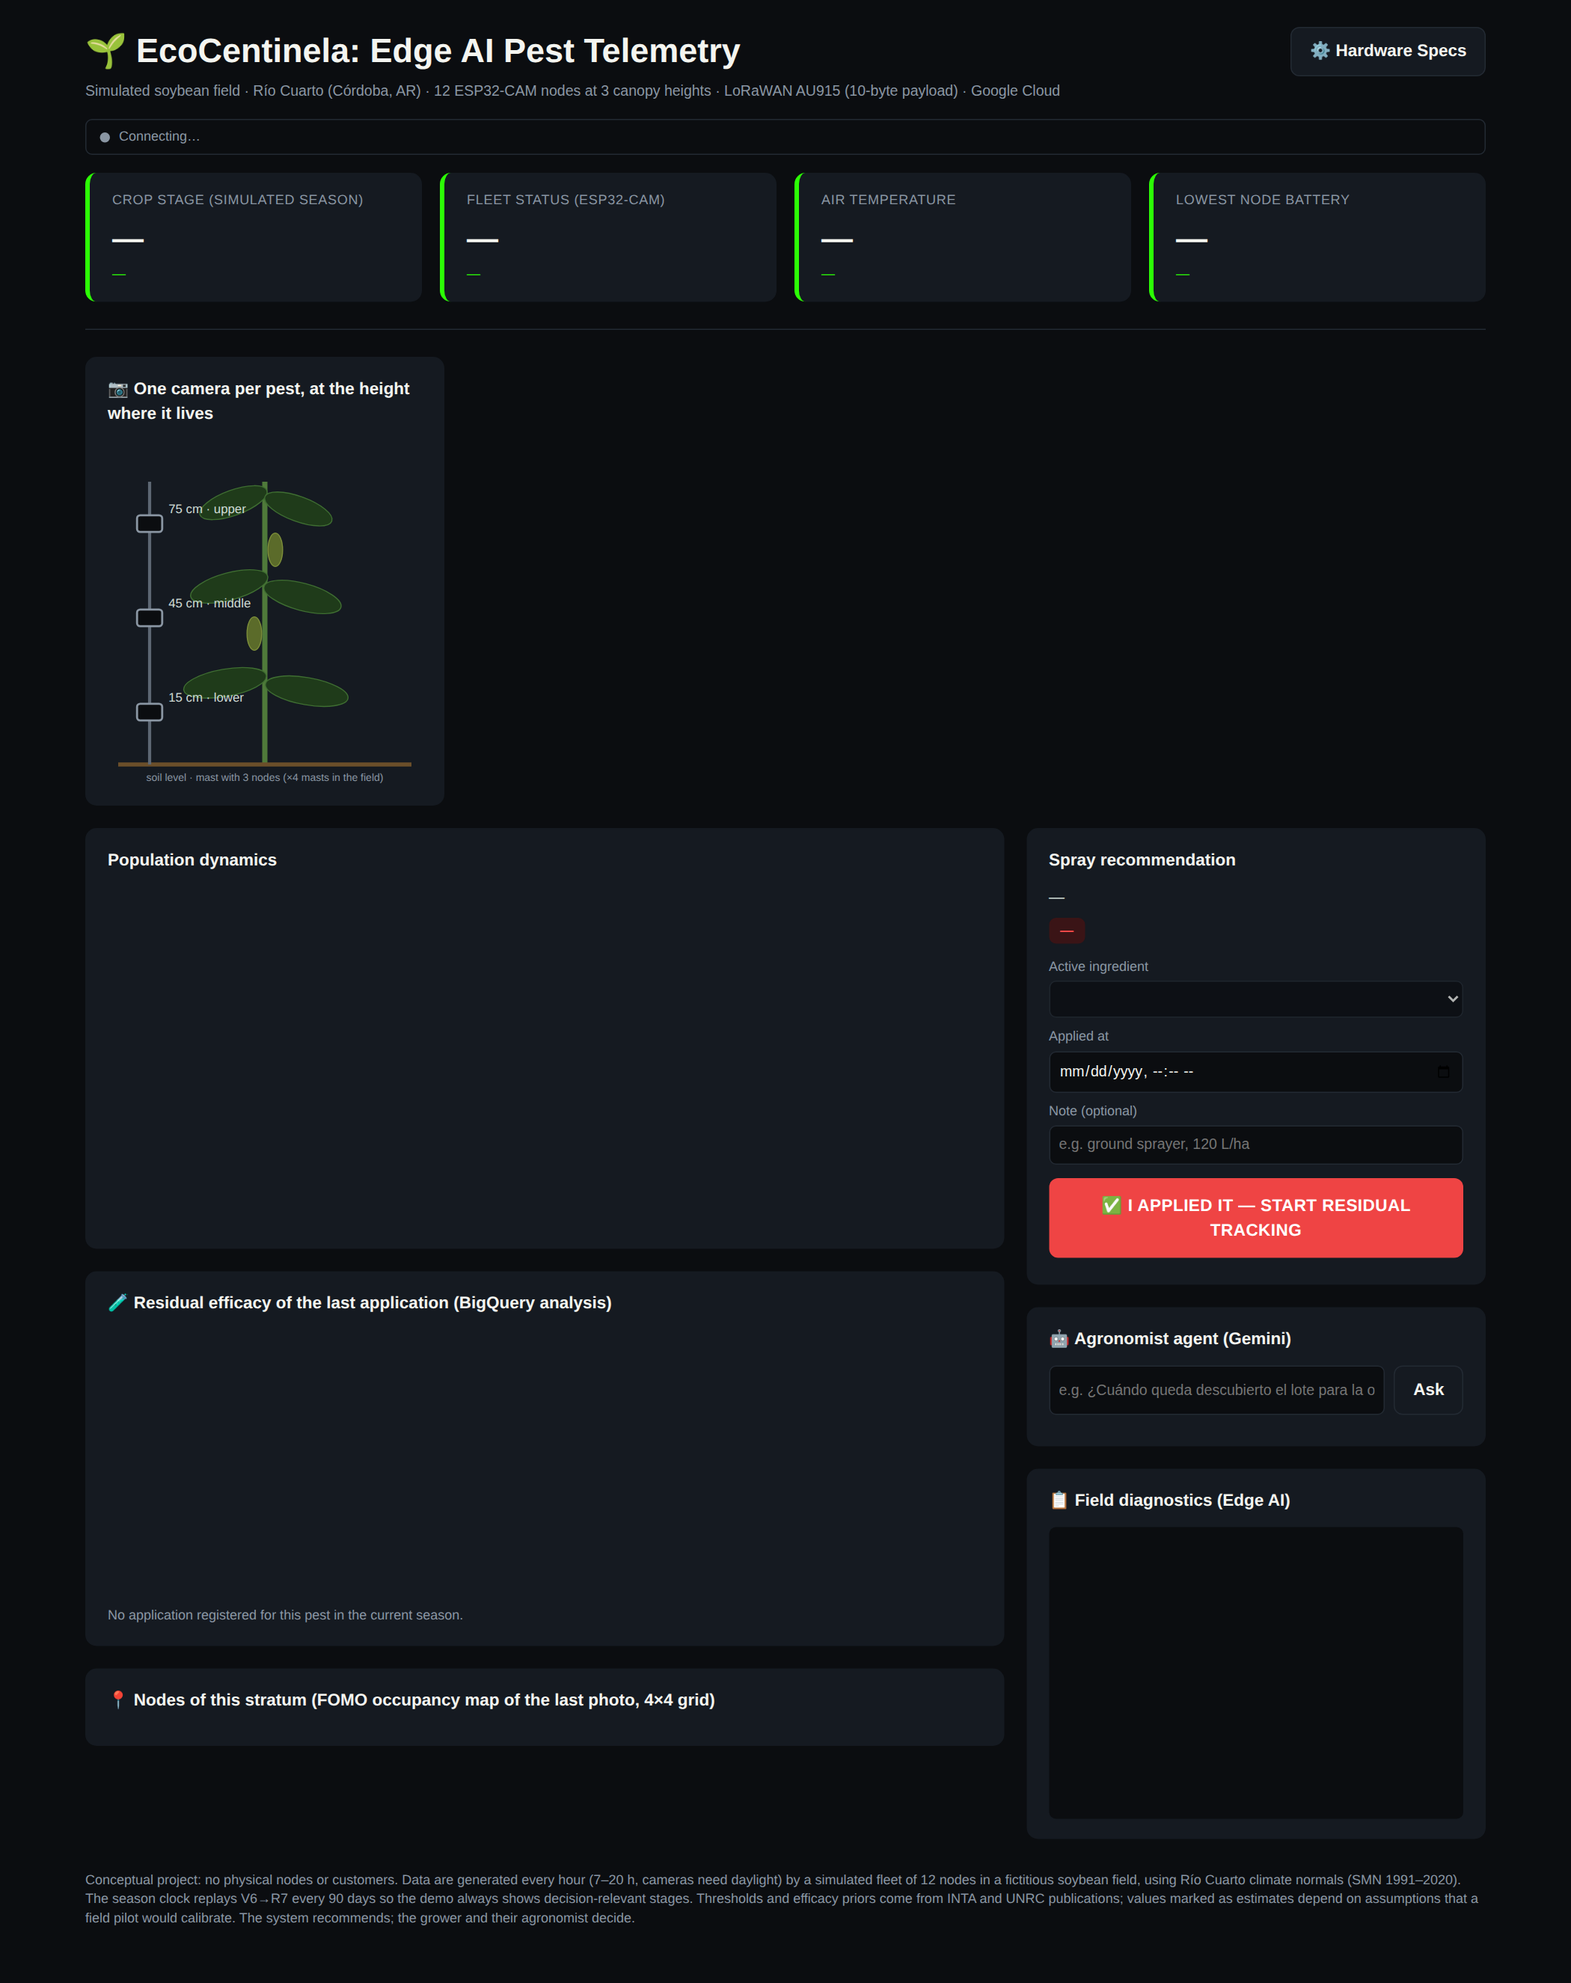
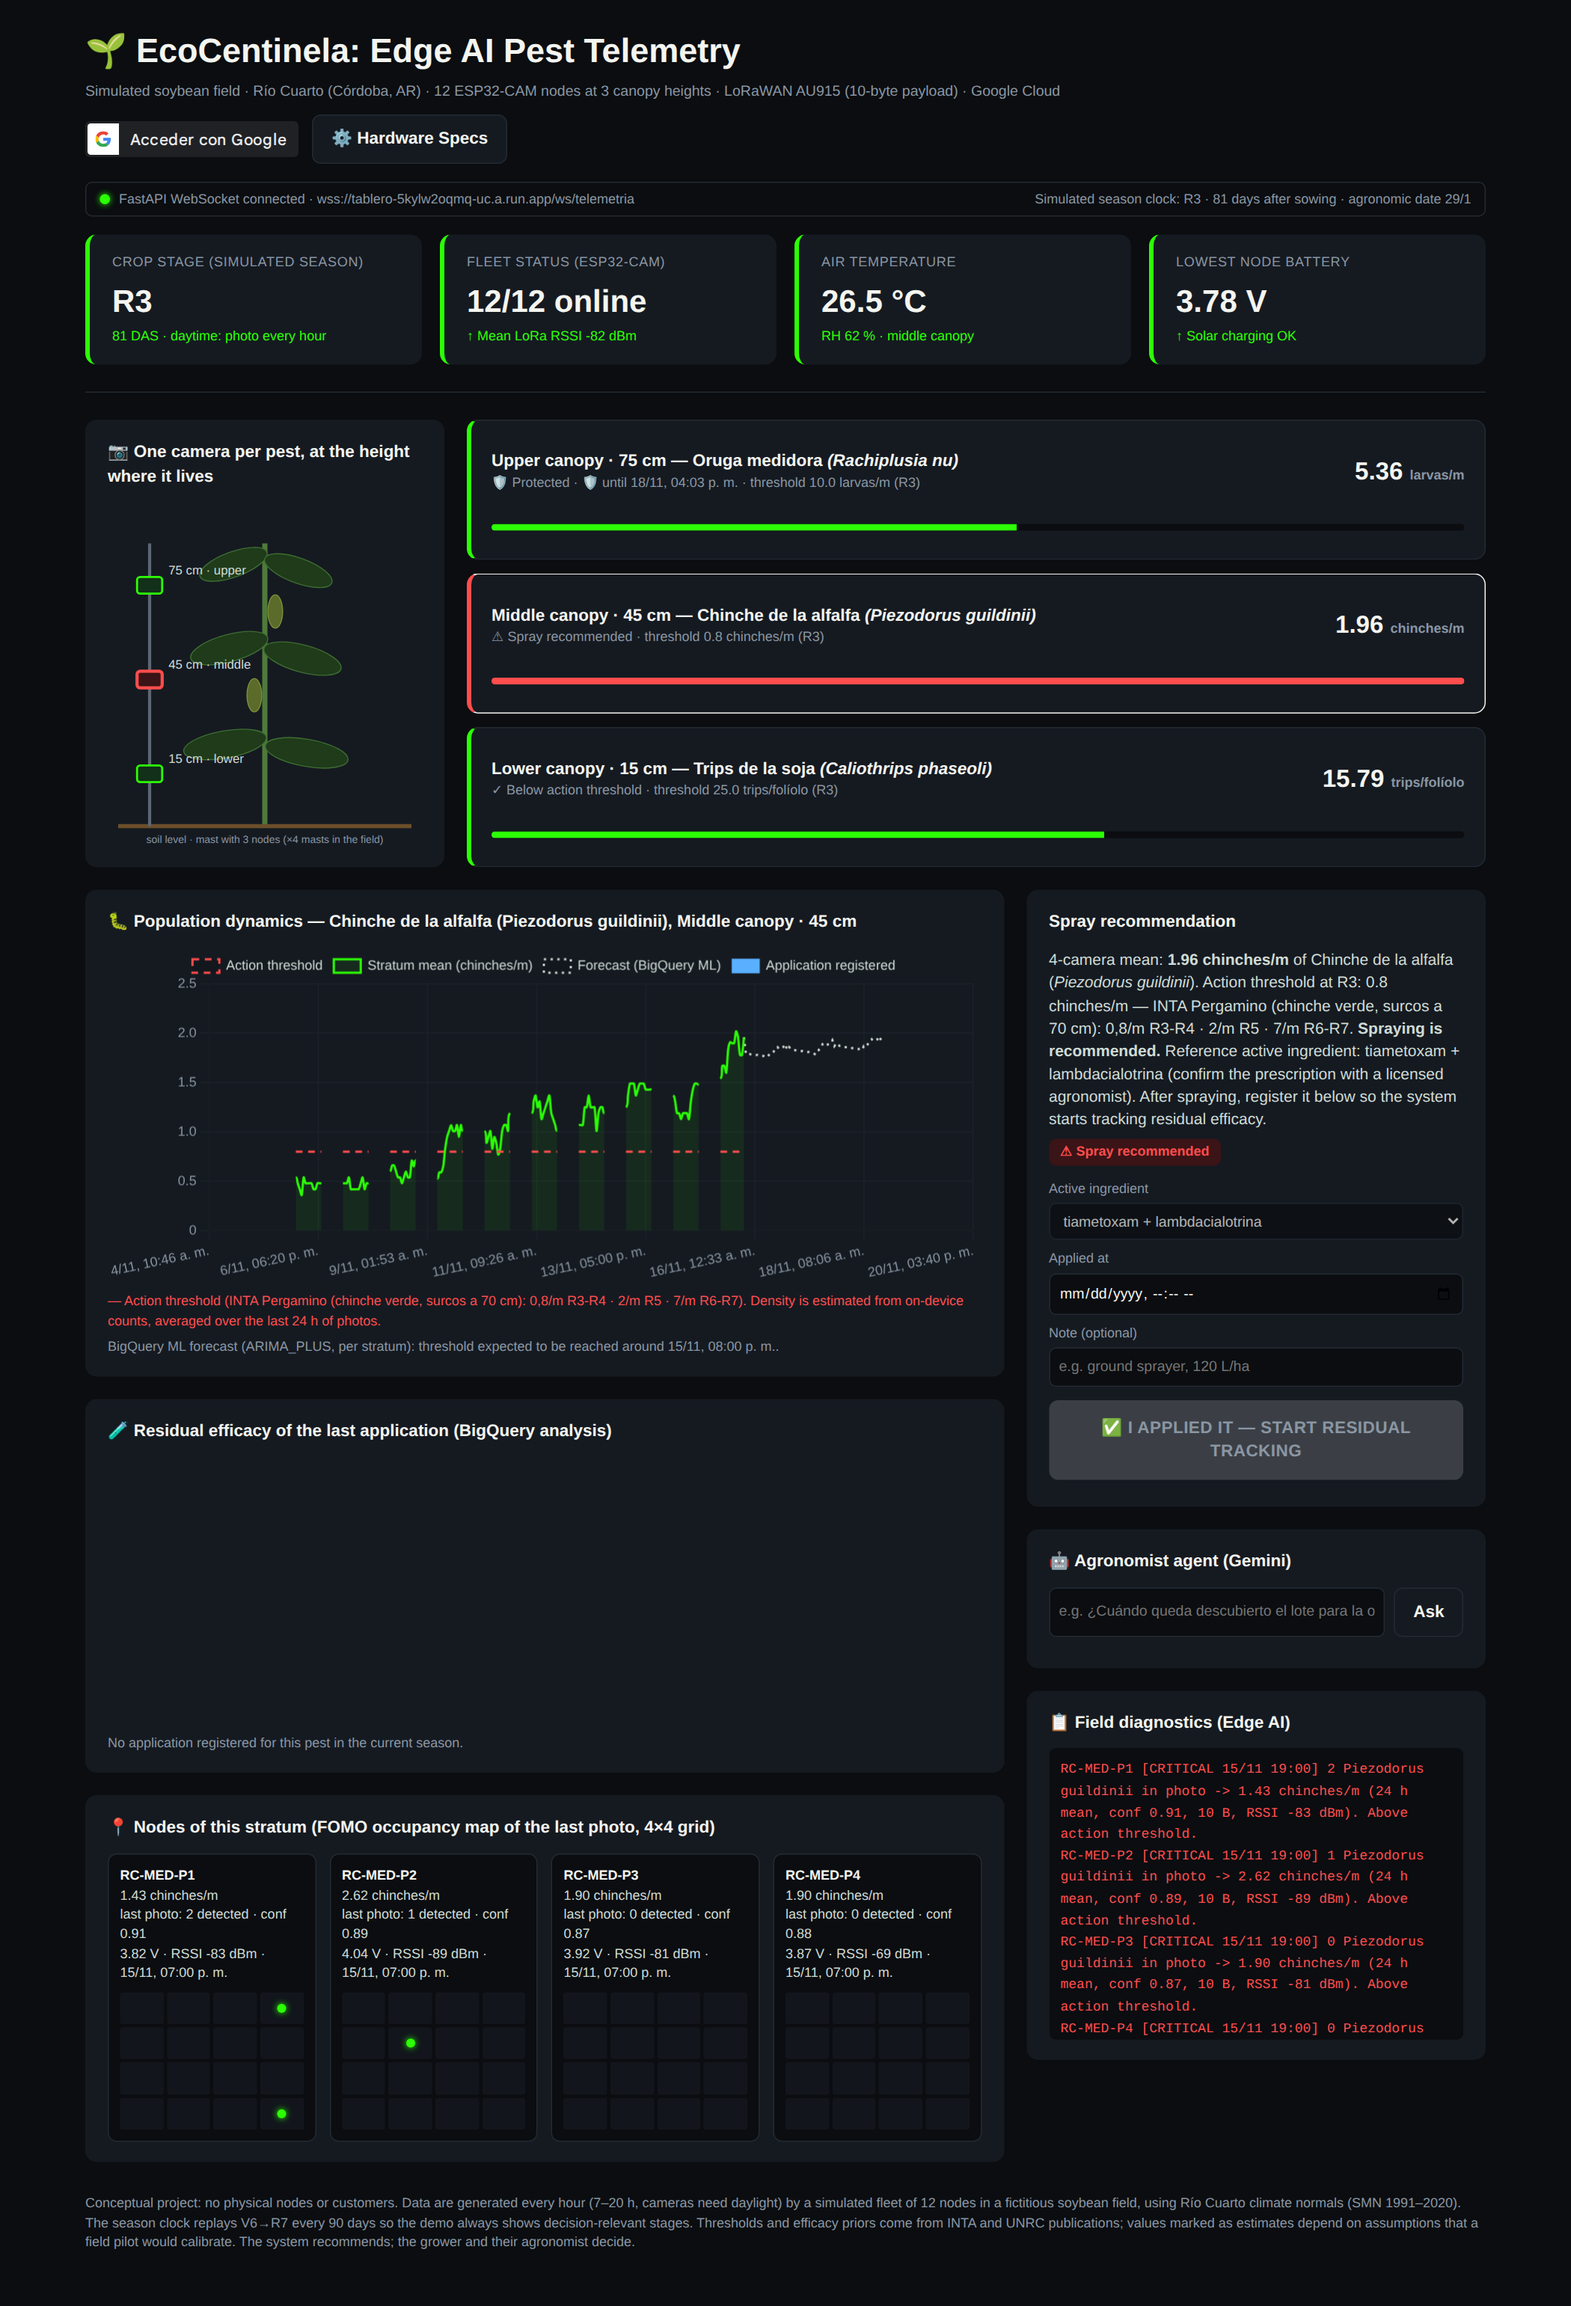
Dashboard: forecast message when already above threshold; no duplicate shield; v2 screenshots

diff --git a/services/tablero/static/app.js b/services/tablero/static/app.js
@@ -46,7 +46,7 @@ function pintarResumen(r, det) {
   $("estratos").innerHTML = r.estratos.map(e => {
     const est = ESTADO[e.estado] || ESTADO.DATOS_INSUFICIENTES;
     const frac = e.densidad != null ? Math.min(1, e.densidad / e.umbral) : 0;
-    const prot = e.proteccion && e.proteccion.vigente ? ` · 🛡 until ${fmt(e.proteccion.fecha_descubierto)}` : "";
+    const prot = e.proteccion && e.proteccion.vigente ? ` until ${fmt(e.proteccion.fecha_descubierto)} (E < 50 %)` : "";
     return `<button class="estrato ${est.color} ${e.estrato === estrato ? "sel" : ""}" data-estrato="${e.estrato}">
       <div><div class="nom">${esc(NOMBRE_ESTRATO[e.estrato])} — ${esc(e.nombre)} <i>(${esc(e.cientifico)})</i></div>
       <div class="det">${esc(est.chip)}${esc(prot)} · threshold ${num(e.umbral, 1)} ${esc(e.unidad)} (${esc(e.estadio)})</div></div>
@@ -99,9 +99,12 @@ function pintarDetalle(d) {
   graficoDensidad(d, e);
   graficoEficacia(d.eficacia);
   const cruce = d.pronostico.find(p => p.densidad >= (e.umbral || Infinity));
-  $("notaPron").textContent = d.pronostico.length ? (cruce ? `BigQuery ML forecast (ARIMA_PLUS, per stratum): threshold expected to be reached around ${fmt(cruce.hora)}.`
-                                                           : "BigQuery ML forecast (ARIMA_PLUS, per stratum): no threshold crossing expected in the next 72 h.")
-                                                  : "BigQuery ML forecast not available yet (the model retrains weekly).";
+  const yaArriba = e.densidad != null && e.densidad >= e.umbral;
+  $("notaPron").textContent = !d.pronostico.length ? "BigQuery ML forecast not available yet (the model retrains weekly)."
+    : yaArriba ? (d.pronostico.every(p => p.densidad >= e.umbral) ? "BigQuery ML forecast (ARIMA_PLUS, per stratum): density stays above the threshold over the next 72 h unless the field is sprayed."
+                                                                   : "BigQuery ML forecast (ARIMA_PLUS, per stratum): density expected to fall back below the threshold within 72 h.")
+    : (cruce ? `BigQuery ML forecast (ARIMA_PLUS, per stratum): threshold expected to be reached around ${fmt(cruce.hora)}.`
+                                                           : "BigQuery ML forecast (ARIMA_PLUS, per stratum): no threshold crossing expected in the next 72 h.");
 }
 
 const ejeTiempo = {type: "linear", ticks: {color: "#8a96a3", maxTicksLimit: 8, callback: v => fmt(new Date(v).toISOString())}, grid: {color: "#1d232b"}};
